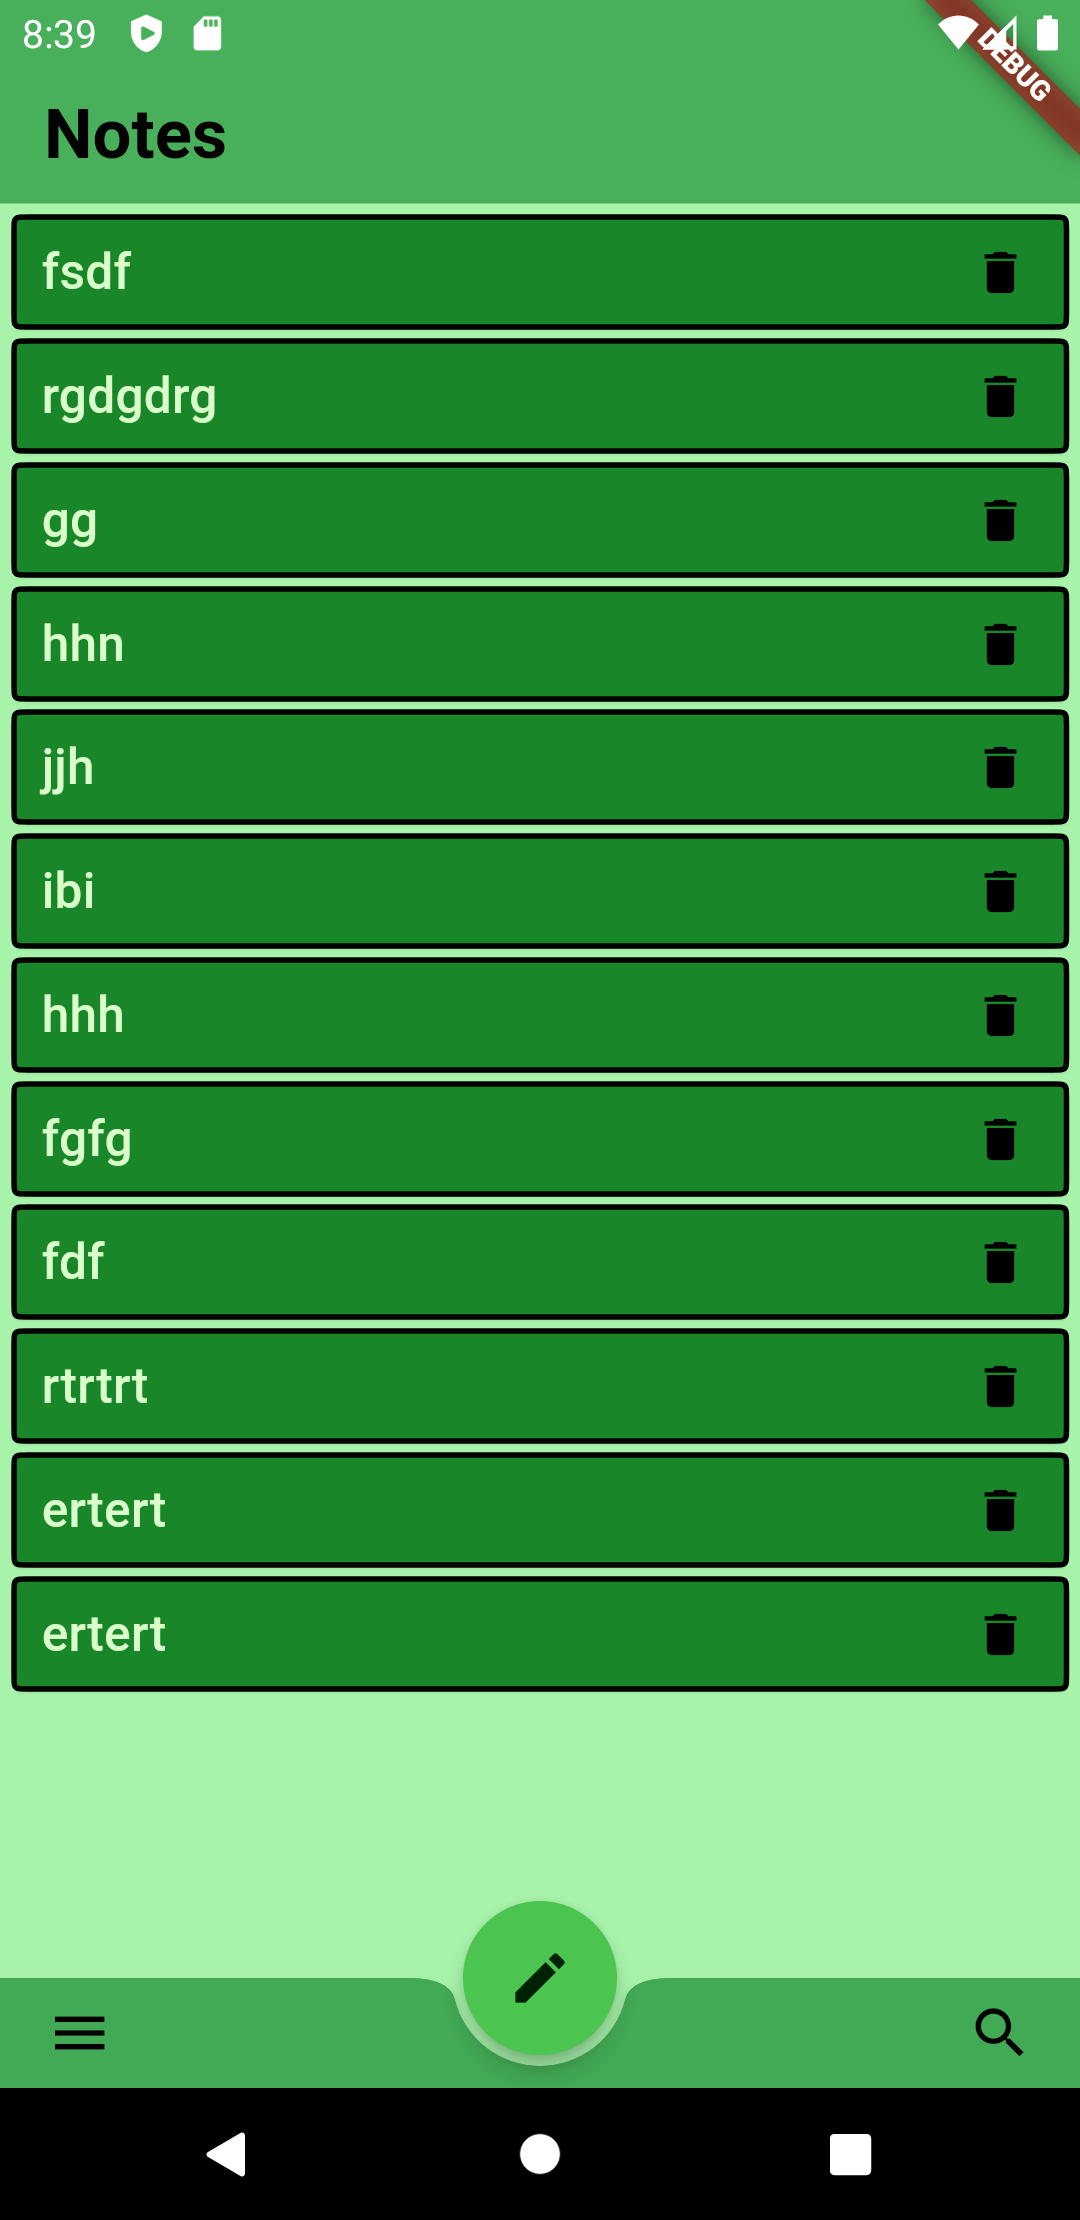
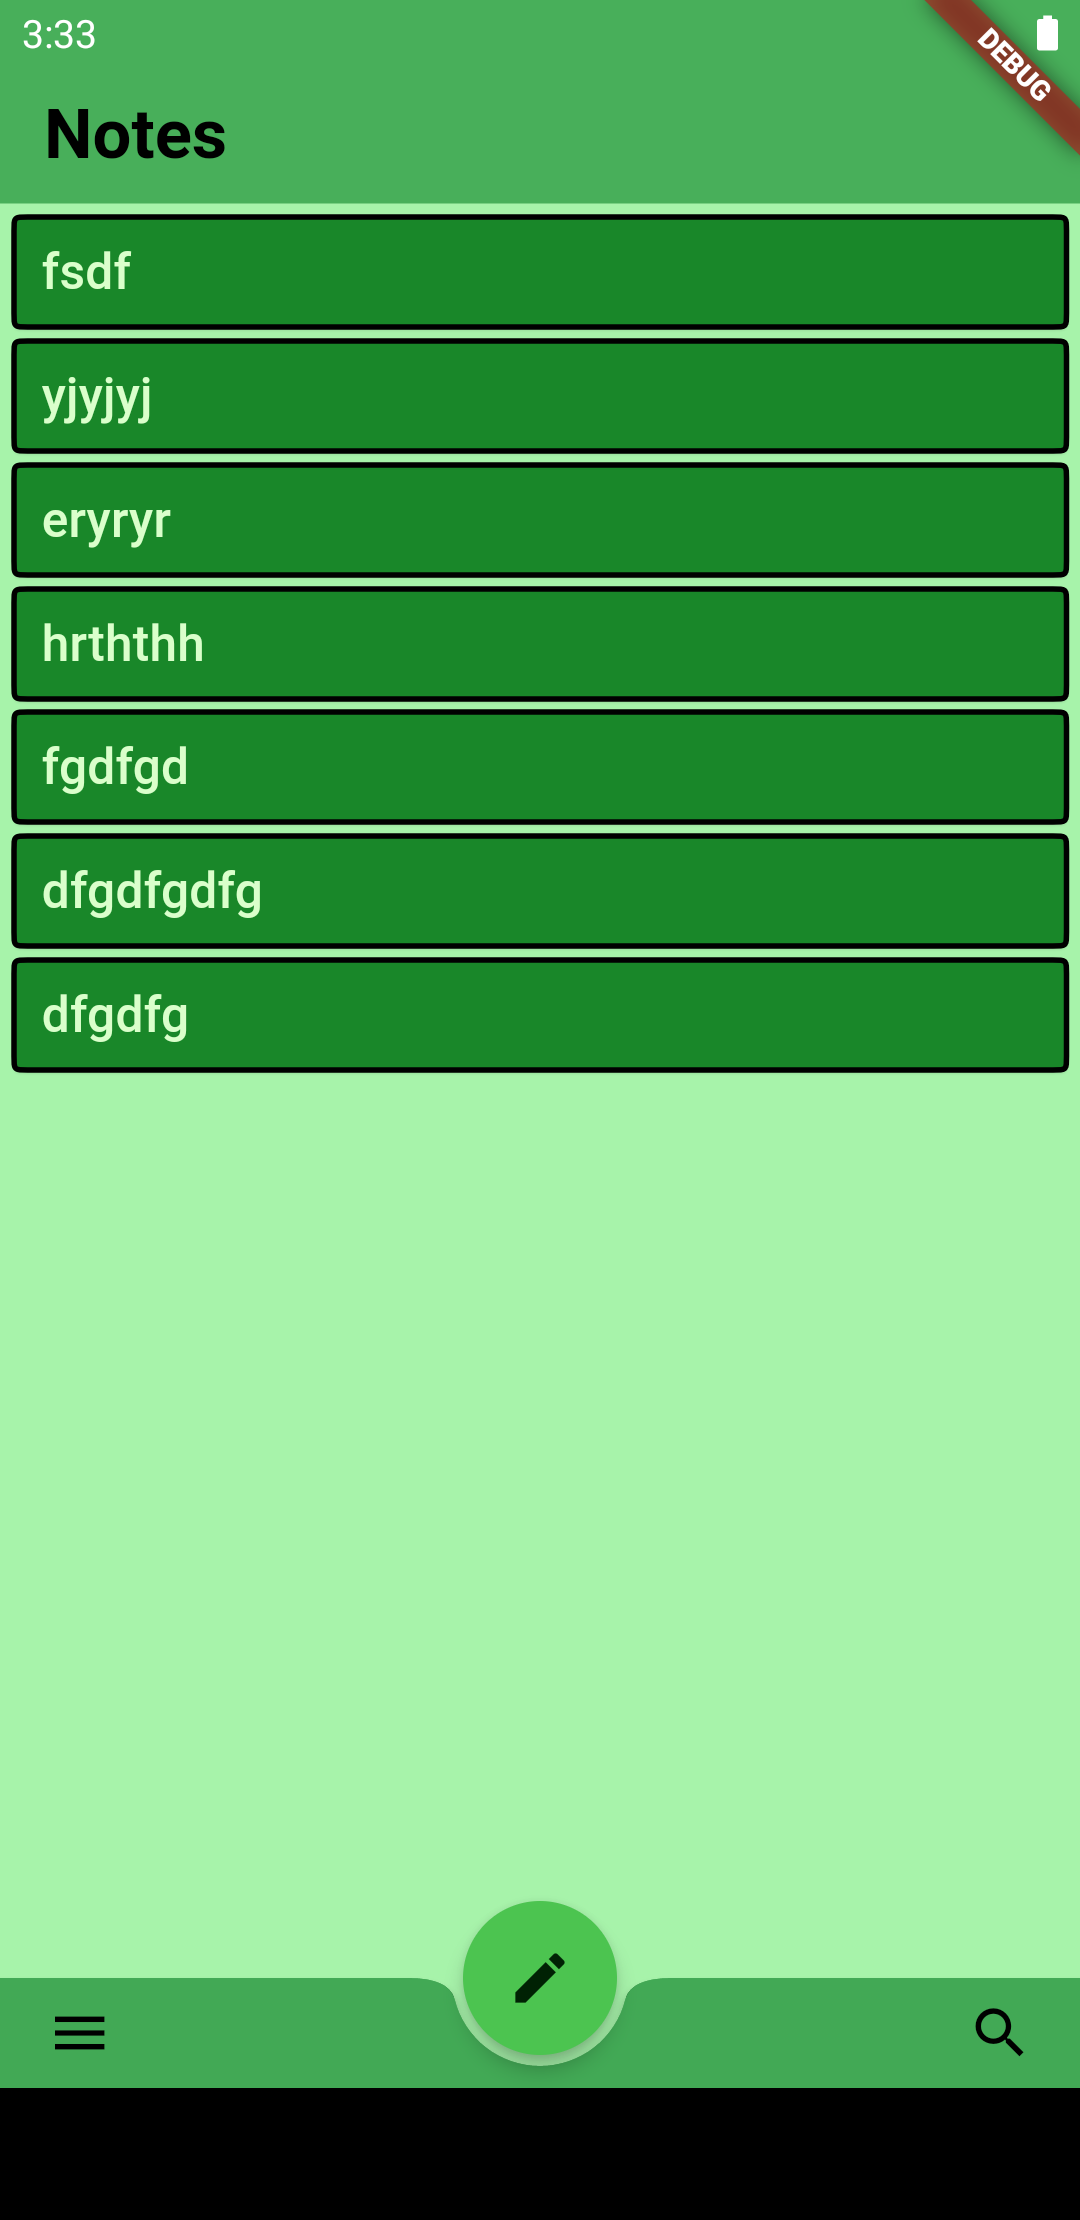
changed deleting mechanic

diff --git a/flutter_todo_app/lib/home_page/home_body.dart b/flutter_todo_app/lib/home_page/home_body.dart
@@ -17,27 +17,23 @@ class HomeBody extends StatelessWidget {
     return SmartRefresher(
       controller: _refreshController,
       onRefresh: () {
-        Provider.of<BodyUpdate>(context, listen: false).refreshBody();
+        Provider.of<BodyUpdateProvider>(context, listen: false).refreshBody();
         _refreshController.refreshCompleted();
       },
-      child: Consumer<BodyUpdate>(
+      child: Consumer<BodyUpdateProvider>(
         builder: (_, bodyUpdate, __) => ListView(
           padding: const EdgeInsets.all(5),
           children: <Widget>[
             if (notesList.isNotEmpty) ...[
               for (var note in notesList)
                 NoteWidget(
-                    note: note,
-                    onDeletePressed: () {
-                      DataDB.delete(note: note, context: context).then((_) {
-                        bodyUpdate.refreshBody();
-                      });
-                    },
-                    onBackSavePressed: () {
-                      DataDB.update(note: note).then((_) {
-                        bodyUpdate.refreshBody();
-                      });
-                    })
+                  note: note,
+                  onBackSavePressed: () {
+                    DataDB.update(note: note).then((_) {
+                      bodyUpdate.refreshBody();
+                    });
+                  },
+                )
             ] else ...[
               Container(
                 alignment: AlignmentGeometry.lerp(
@@ -59,15 +55,65 @@ class HomeBody extends StatelessWidget {
 }
 
 class NoteWidget extends StatelessWidget {
-  // TODO make different delete
-  const NoteWidget(
-      {super.key,
-      required this.note,
-      required this.onDeletePressed,
-      required this.onBackSavePressed});
+  const NoteWidget({
+    super.key,
+    required this.note,
+    required this.onBackSavePressed,
+  });
   final NoteModel note;
-  final VoidCallback onDeletePressed;
   final VoidCallback onBackSavePressed;
+
+  @override
+  Widget build(BuildContext context) {
+    return Consumer<NoteLongPressedProvider>(
+      builder: (_, value, __) => value.noteLongPressed
+          ? NoteAfterLongPress(
+              note: note,
+              value: value,
+            )
+          : Column(children: [
+              SizedBox(
+                height: 40,
+                child: ElevatedButton(
+                    onLongPress: () {
+                      print('You long pressed Note button.');
+                      value.notesEditList.add(note);
+                      Provider.of<NoteLongPressedProvider>(context,
+                              listen: false)
+                          .onNoteLongPressed();
+                    },
+                    onPressed: () {
+                      Navigator.push(
+                              context,
+                              MaterialPageRoute(
+                                  builder: (context) => Note(
+                                      id: note.id,
+                                      title: note.titleController,
+                                      content: note.contentController)))
+                          .then((_) => onBackSavePressed());
+                    },
+                    child: Row(children: [
+                      Text(note.titleController.text,
+                          style: TextStyle(
+                              color:
+                                  Theme.of(context).textTheme.bodyMedium!.color,
+                              fontSize: 18)),
+                    ])),
+              ),
+              const SizedBox(height: 5)
+            ]),
+    );
+  }
+}
+
+class NoteAfterLongPress extends StatelessWidget {
+  const NoteAfterLongPress({
+    super.key,
+    required this.note,
+    required this.value,
+  });
+  final NoteModel note;
+  final NoteLongPressedProvider value;
 
   @override
   Widget build(BuildContext context) {
@@ -75,30 +121,18 @@ class NoteWidget extends StatelessWidget {
       SizedBox(
         height: 40,
         child: ElevatedButton(
-            onPressed: () {
-              Navigator.push(
-                      context,
-                      MaterialPageRoute(
-                          builder: (context) => Note(
-                              id: note.id,
-                              title: note.titleController,
-                              content: note.contentController)))
-                  .then((_) => onBackSavePressed());
-            },
-            child: Row(children: [
-              Text(note.titleController.text,
-                  style: TextStyle(
-                      color: Theme.of(context).textTheme.bodyMedium!.color,
-                      fontSize: 18)),
-              const Spacer(),
-              IconButton(
-                  color: Theme.of(context).colorScheme.onPrimary,
-                  iconSize: 20,
-                  icon: const Icon(Icons.delete),
-                  onPressed: () {
-                    onDeletePressed();
-                  })
-            ])),
+          onPressed: () => value.addToEditList(note),
+          style: value.notesEditList.contains(note)
+              ? ElevatedButton.styleFrom(
+                  backgroundColor: Theme.of(context).colorScheme.tertiary)
+              : null,
+          child: Row(children: [
+            Text(note.titleController.text,
+                style: TextStyle(
+                    color: Theme.of(context).textTheme.bodyMedium!.color,
+                    fontSize: 18)),
+          ]),
+        ),
       ),
       const SizedBox(height: 5)
     ]);

diff --git a/flutter_todo_app/lib/home_page/home_page.dart b/flutter_todo_app/lib/home_page/home_page.dart
@@ -1,7 +1,9 @@
 import 'package:flutter/material.dart';
+import 'package:flutter_todo_app/home_page/home_bottom_list_edit.dart';
 import 'package:flutter_todo_app/main.dart';
 import 'package:provider/provider.dart';
 
+import '../database.dart';
 import '../new_note_page/new_note_page.dart';
 import 'home_body.dart';
 import 'home_bottom_appbar.dart';
@@ -13,10 +15,16 @@ class HomePage extends StatelessWidget {
 
   @override
   Widget build(BuildContext context) {
-    return ChangeNotifierProvider<BodyUpdate>(
-      create: (context) => BodyUpdate(),
+    return MultiProvider(
+      providers: [
+        ChangeNotifierProvider<BodyUpdateProvider>(
+          create: (_) => BodyUpdateProvider(),
+        ),
+        ChangeNotifierProvider<NoteLongPressedProvider>(
+          create: (_) => NoteLongPressedProvider(),
+        ),
+      ],
       builder: (context, child) => Scaffold(
-        // ----------------------TOP--------------------------------
         appBar: AppBar(
           toolbarHeight: 50,
           title: Text(
@@ -29,27 +37,86 @@ class HomePage extends StatelessWidget {
         ),
         // ----------------------Center-------------------------------
         body: HomeBody(),
-        // ----------------------BOTTOM--------------------------------
-        bottomNavigationBar: HomeBottomAppBar(theme: theme),
-        floatingActionButton: FloatingActionButton(
-          shape: const CircleBorder(),
-          onPressed: () {
-            Navigator.pushNamed(context, NewNotePage.routeName).then((value) {
-              if (value == true) {
-                Provider.of<BodyUpdate>(context, listen: false).refreshBody();
-              }
-            });
-          },
-          child: const Icon(Icons.create),
+        // ------------------BOTTOM NAVIGATION BAR--------------------
+        bottomNavigationBar: Consumer<NoteLongPressedProvider>(
+          builder: (_, value, __) => value.noteLongPressed
+              ? const HomeBottomListEdit()
+              : HomeBottomAppBar(theme: theme),
         ),
-        floatingActionButtonLocation: FloatingActionButtonLocation.centerDocked,
+        // -------------------FLOATING ACTION BUTTON-------------------
+        floatingActionButton: Consumer<NoteLongPressedProvider>(
+          builder: (_, value, __) {
+            return Visibility(
+              visible: value.noteLongPressed ? false : true,
+              child: FloatingActionButton(
+                shape: const CircleBorder(),
+                onPressed: () {
+                  Navigator.pushNamed(context, NewNotePage.routeName)
+                      .then((value) {
+                    if (value == true) {
+                      Provider.of<BodyUpdateProvider>(context, listen: false)
+                          .refreshBody();
+                    }
+                  });
+                },
+                child: const Icon(Icons.create),
+              ),
+            );
+          },
+        ),
+        floatingActionButtonLocation:
+            Provider.of<NoteLongPressedProvider>(context)
+                .floatingActionButtonLocation,
       ),
     );
   }
 }
 
-class BodyUpdate extends ChangeNotifier {
+class BodyUpdateProvider extends ChangeNotifier {
   void refreshBody() {
+    notifyListeners();
+  }
+}
+
+class NoteLongPressedProvider extends ChangeNotifier {
+  List notesEditList = <NoteModel>[];
+
+  void addToEditList(NoteModel note) {
+    if (notesEditList.contains(note)) {
+      notesEditList.remove(note);
+      print("note removed from notesEditList");
+    } else {
+      notesEditList.add(note);
+      print("note added to notesEditList");
+    }
+    notifyListeners();
+  }
+
+  void deleteNotes(context) {
+    _noteLongPressed = false;
+    print("onTrashcan");
+    if (notesEditList.isNotEmpty) {
+      for (var note in notesEditList) {
+        DataDB.delete(note: note, context: context).then((_) {
+          print("onTrashcan before notify");
+          notifyListeners();
+          print("After notify");
+        });
+      }
+    }
+  }
+
+  bool _noteLongPressed = false;
+  bool get noteLongPressed => _noteLongPressed;
+
+  final _centerDocked = FloatingActionButtonLocation.centerDocked;
+  final _centerFloat = FloatingActionButtonLocation.centerFloat;
+  FloatingActionButtonLocation get floatingActionButtonLocation =>
+      _noteLongPressed ? _centerFloat : _centerDocked;
+
+  void onNoteLongPressed() {
+    _noteLongPressed = true;
+    print("Long press function");
     notifyListeners();
   }
 }

diff --git a/flutter_todo_app/lib/home_page/home_bottom_list_edit.dart b/flutter_todo_app/lib/home_page/home_bottom_list_edit.dart
@@ -1,0 +1,36 @@
+import 'package:flutter/material.dart';
+import 'package:provider/provider.dart';
+
+import 'home_page.dart';
+
+class HomeBottomListEdit extends StatelessWidget {
+  const HomeBottomListEdit({super.key});
+
+  @override
+  Widget build(BuildContext context) {
+    return BottomAppBar(
+      color: Theme.of(context).colorScheme.tertiary,
+      height: 50,
+      padding: const EdgeInsets.all(5),
+      shape: const CircularNotchedRectangle(),
+      notchMargin: 4,
+      clipBehavior: Clip.antiAlias,
+      // -------------------------------------------------
+      child: Row(
+        children: <Widget>[
+          const Spacer(),
+          IconButton(
+            padding: const EdgeInsets.all(0),
+            tooltip: 'Delete',
+            icon: const Icon(Icons.delete, size: 30),
+            onPressed: () {
+              print('Pressed Trashcan.');
+              Provider.of<NoteLongPressedProvider>(context, listen: false)
+                  .deleteNotes(context);
+            },
+          ),
+        ],
+      ),
+    );
+  }
+}

diff --git a/flutter_todo_app/lib/theme_class.dart b/flutter_todo_app/lib/theme_class.dart
@@ -24,10 +24,10 @@ class ThemeClass {
   static ThemeData lightTheme = ThemeData(
     useMaterial3: true,
     colorScheme: ColorScheme.fromSeed(
-      seedColor: Colors.green,
-      onPrimary: Colors.black,
-      secondary: const Color.fromARGB(255, 213, 230, 209),
-    ),
+        seedColor: Colors.green,
+        onPrimary: Colors.black,
+        secondary: const Color.fromARGB(255, 213, 230, 209),
+        tertiary: const Color.fromARGB(255, 141, 200, 150)),
     scaffoldBackgroundColor: const Color.fromARGB(255, 167, 243, 170),
     appBarTheme: const AppBarTheme(
       titleTextStyle: TextStyle(color: Colors.black),
@@ -70,6 +70,7 @@ class ThemeClass {
       primary: Colors.amber,
       onPrimary: Colors.white,
       secondary: Colors.black,
+      tertiary: const Color.fromARGB(255, 74, 74, 74),
     ),
     hintColor: Colors.white.withOpacity(0.5),
     scaffoldBackgroundColor: Colors.black,

diff --git a/flutter_todo_app/lib/home_page/home_bottom_appbar.dart b/flutter_todo_app/lib/home_page/home_bottom_appbar.dart
@@ -17,9 +17,12 @@ class HomeBottomAppBar extends StatelessWidget {
       child: Row(
         children: <Widget>[
           PopupMenuButton(
-            icon: const Icon(Icons.menu),
+            icon: Icon(
+              Icons.menu,
+              color: Theme.of(context).iconTheme.color,
+            ),
             padding: const EdgeInsets.all(0),
-            offset: const Offset(0, -110),
+            offset: const Offset(0, -100),
             tooltip: "menu",
             onSelected: (value) {
               if (value == "Theme") {

diff --git a/flutter_todo_app/lib/main.dart b/flutter_todo_app/lib/main.dart
@@ -110,6 +110,7 @@ class DataDB {
 
   static Future<void> delete(
       {required NoteModel note, required BuildContext context}) async {
+    print("DataBase delete");
     await DatabaseHelper.instance.delete(note.id!).then((_) {
       notesList.remove(note);
     }).catchError((e) {
